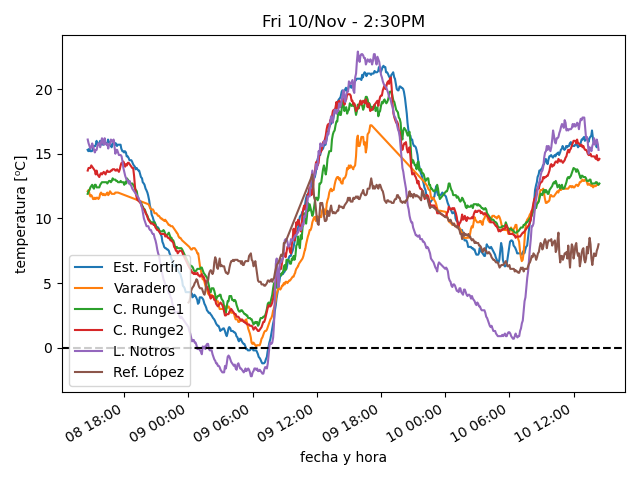
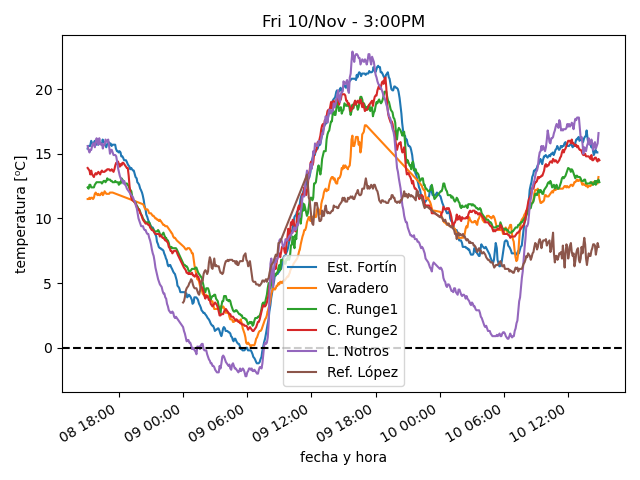
actualiza datos

diff --git a/estaciones/estacion2.html b/estaciones/estacion2.html
@@ -18,47 +18,47 @@
     </tr>
     <tr>
      <td class="stats_data">
-      2:14PM
+      2:49PM
      </td>
     </tr>
     <tr>
      <td class="stats_data">
-      12.6⁰C
+      13.2⁰C
      </td>
     </tr>
     <tr>
      <td class="stats_data">
-      7.1⁰C
+      7.4⁰C
      </td>
     </tr>
     <tr>
      <td class="stats_data">
-      69.1%
+      68.1%
      </td>
     </tr>
     <tr>
      <td class="stats_data">
-      1010.5hPa
+      1009.82hPa
      </td>
     </tr>
     <tr>
      <td class="stats_data">
-      26.0/30.2 km/hr NW
+      6.3/9.9 km/hr NNE
      </td>
     </tr>
     <tr>
      <td class="stats_data">
-      0.0 / 0.0 mm
+      1.02 / 6.1 mm
      </td>
     </tr>
     <tr>
      <td class="stats_data">
-      7.0
+      8.0
      </td>
     </tr>
     <tr>
      <td class="stats_data">
-      786.9 W/m²
+      850.6 W/m²
      </td>
     </tr>
    </tbody>

diff --git a/estaciones/estacion3.html b/estaciones/estacion3.html
@@ -18,32 +18,32 @@
     </tr>
     <tr>
      <td class="stats_data">
-      2:24PM
+      2:54PM
      </td>
     </tr>
     <tr>
      <td class="stats_data">
-      12.7⁰C
+      12.8⁰C
      </td>
     </tr>
     <tr>
      <td class="stats_data">
-      5.8⁰C
+      5.9⁰C
      </td>
     </tr>
     <tr>
      <td class="stats_data">
-      63.2%
+      62.5%
      </td>
     </tr>
     <tr>
      <td class="stats_data">
-      995.63hPa
+      995.23hPa
      </td>
     </tr>
     <tr>
      <td class="stats_data">
-      13.5/19.4 km/hr NW
+      15.3/22.4 km/hr NNW
      </td>
     </tr>
     <tr>
@@ -53,12 +53,12 @@
     </tr>
     <tr>
      <td class="stats_data">
-      9.0
+      8.0
      </td>
     </tr>
     <tr>
      <td class="stats_data">
-      800.3 W/m²
+      783.4 W/m²
      </td>
     </tr>
    </tbody>

diff --git a/estaciones/estacion1.html b/estaciones/estacion1.html
@@ -18,22 +18,22 @@
     </tr>
     <tr>
      <td class="stats_data">
-      2:13PM
+      2:43PM
      </td>
     </tr>
     <tr>
      <td class="stats_data">
-      15.7⁰C
+      15.1⁰C
      </td>
     </tr>
     <tr>
      <td class="stats_data">
-      4.7⁰C
+      3.4⁰C
      </td>
     </tr>
     <tr>
      <td class="stats_data">
-      48.0%
+      45.5%
      </td>
     </tr>
     <tr>
@@ -43,7 +43,7 @@
     </tr>
     <tr>
      <td class="stats_data">
-      22.5/34.6 km/hr WSW
+      20.9/35.4 km/hr WNW
      </td>
     </tr>
     <tr>
@@ -53,12 +53,12 @@
     </tr>
     <tr>
      <td class="stats_data">
-      6.2
+      5.8
      </td>
     </tr>
     <tr>
      <td class="stats_data">
-      939.0 W/m²
+      909.0 W/m²
      </td>
     </tr>
    </tbody>

diff --git a/estaciones/estacion4.html b/estaciones/estacion4.html
@@ -18,32 +18,32 @@
     </tr>
     <tr>
      <td class="stats_data">
-      2:24PM
+      2:54PM
      </td>
     </tr>
     <tr>
      <td class="stats_data">
-      14.6⁰C
+      14.5⁰C
      </td>
     </tr>
     <tr>
      <td class="stats_data">
-      5.7⁰C
+      5.4⁰C
      </td>
     </tr>
     <tr>
      <td class="stats_data">
-      55.2%
+      54.3%
      </td>
     </tr>
     <tr>
      <td class="stats_data">
-      1004.74hPa
+      1004.23hPa
      </td>
     </tr>
     <tr>
      <td class="stats_data">
-      5.6/8.8 km/hr WSW
+      5.6/8.1 km/hr SW
      </td>
     </tr>
     <tr>
@@ -58,7 +58,7 @@
     </tr>
     <tr>
      <td class="stats_data">
-      818.5 W/m²
+      785.3 W/m²
      </td>
     </tr>
    </tbody>

diff --git a/estaciones/estacion6.html b/estaciones/estacion6.html
@@ -18,32 +18,32 @@
     </tr>
     <tr>
      <td class="stats_data">
-      2:20PM
+      2:50PM
      </td>
     </tr>
     <tr>
      <td class="stats_data">
-      8.0⁰C
+      7.8⁰C
      </td>
     </tr>
     <tr>
      <td class="stats_data">
-      0.9⁰C
+      0.5⁰C
      </td>
     </tr>
     <tr>
      <td class="stats_data">
-      61.0%
+      60.0%
      </td>
     </tr>
     <tr>
      <td class="stats_data">
-      1001.66hPa
+      1001.02hPa
      </td>
     </tr>
     <tr>
      <td class="stats_data">
-      8.0/19.3 km/hr NE
+      9.7/24.1 km/hr NE
      </td>
     </tr>
     <tr>
@@ -58,7 +58,7 @@
     </tr>
     <tr>
      <td class="stats_data">
-      896.0 W/m²
+      889.0 W/m²
      </td>
     </tr>
    </tbody>

diff --git a/estaciones/estacion5.html b/estaciones/estacion5.html
@@ -18,32 +18,32 @@
     </tr>
     <tr>
      <td class="stats_data">
-      2:20PM
+      2:50PM
      </td>
     </tr>
     <tr>
      <td class="stats_data">
-      15.3⁰C
+      16.6⁰C
      </td>
     </tr>
     <tr>
      <td class="stats_data">
-      5.9⁰C
+      6.3⁰C
      </td>
     </tr>
     <tr>
      <td class="stats_data">
-      54.0%
+      51.0%
      </td>
     </tr>
     <tr>
      <td class="stats_data">
-      1002.98hPa
+      1002.1hPa
      </td>
     </tr>
     <tr>
      <td class="stats_data">
-      0.0/11.1 km/hr N
+      0.0/6.1 km/hr N
      </td>
     </tr>
     <tr>
